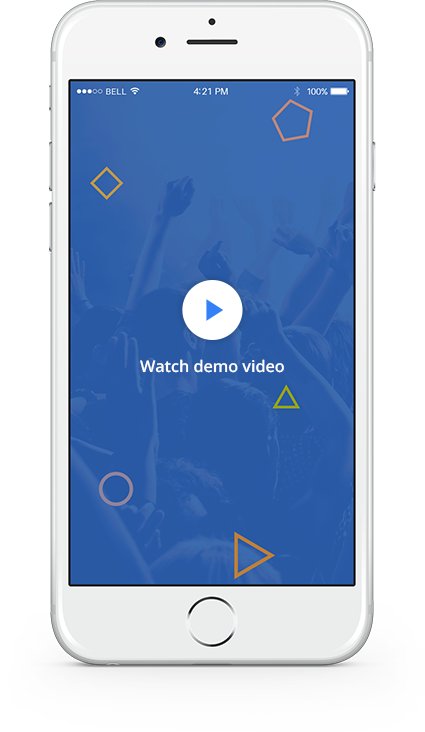
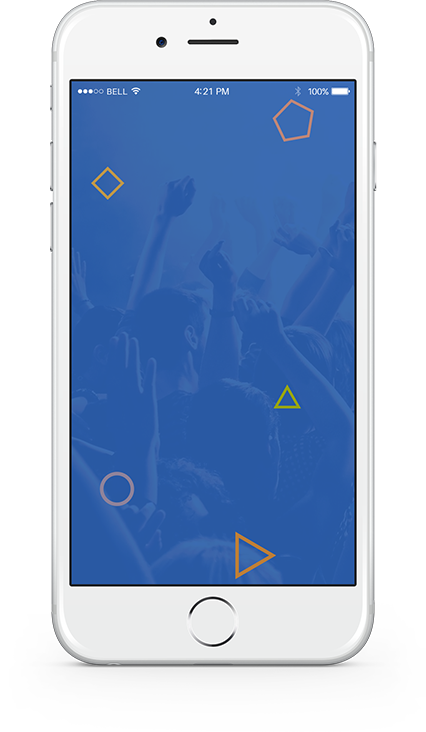
Watch demo video link dynamic + responsive
Le bouton sur la strate d’intro sur le mobile « Watch demo video » est
maintenant un vrai lien.
Son comportement est également géré en responsive avec les media-queries

diff --git a/ui/css/style.css b/ui/css/style.css
@@ -17,6 +17,7 @@ html, body{
 }
 a,p, h1, h2{
   font-family: 'Open Sans', sans-serif;
+  text-decoration: none;
 }
 img{
   max-width:100%;height:auto;display:block
@@ -221,20 +222,51 @@ input[type='submit']{
 .plain:nth-of-type(1) .email-wrapper{
   background: #ffcb64;
 }
-.plain:nth-of-type(1) .wrapper img{
+.plain:nth-of-type(1) .wrapper img {
+  
+}  
+.plain:nth-of-type(1) .pure-u-1:nth-of-type(2) .pure-pos {
   position: absolute;
   right: 14%;
 }
-.plain:nth-of-type(1) .wrapper a{
+.plain:nth-of-type(1) .pure-u-1:nth-of-type(2) a {
+  top: 38%;
+  right: 34%;
+  z-index: 1;
+  position: absolute;
+  color:#ffffff;
+}
+.plain:nth-of-type(1) .pure-u-1:nth-of-type(2) span:nth-of-type(1) {
+  width: 60px;
+  height: 60px;
+  display:block;
+  margin: 0 auto;
+  background: #fff url(../images/sprite-icons.png) no-repeat;
+  background-position: -93px -155px;
+  -moz-box-shadow: 0px 0px 5px 0px #656565;
+  -webkit-box-shadow: 0px 0px 5px 0px #656565;
+  -o-box-shadow: 0px 0px 5px 0px #656565;
+  box-shadow: 0px 0px 5px 0px #656565;
+  filter:progid:DXImageTransform.Microsoft.Shadow(color=#656565, Direction=NaN, Strength=5);
+  -moz-border-radius: 200px;
+  -webkit-border-radius: 200px;
+  border-radius: 200px;
+}
+.plain:nth-of-type(1) .pure-u-1:nth-of-type(2) span:nth-of-type(2) {
+  position: relative;
+  top: 20px;,
+}
+.plain:nth-of-type(1) .pure-u-1:nth-of-type(3) a{
   z-index:1;
   position: absolute;
   top: 100%;
   left: 50%;
   margin-left: -32px;
   margin-top: -32px;
-  padding: 32px;
+  width:64px;
+  height:64px;
   background: #fff url(../images/sprite-icons.png) no-repeat;
-  background-position: 7px -158px;
+  background-position: 7px -159px;
   -moz-box-shadow: 0px 0px 12px 0px #9b9b9b;
   -webkit-box-shadow: 0px 0px 12px 0px #9b9b9b;
   -o-box-shadow: 0px 0px 12px 0px #9b9b9b;
@@ -496,6 +528,7 @@ footer .swag-si-tu-lis-ca li:last-child{
   .plain:nth-of-type(1) .wrapper img,
   .plain:nth-of-type(2) .wrapper img{
     position: initial;
+    margin: 0 auto;
   }
   .plain:nth-of-type(4) header {
     padding-bottom: 100px;
@@ -536,6 +569,15 @@ footer .swag-si-tu-lis-ca li:last-child{
   .plain:nth-of-type(1) form{
     margin-bottom: 40px;
   }
+  .plain:nth-of-type(1) .pure-u-1:nth-of-type(2) .pure-pos {
+    position:initial;
+  }
+  .plain:nth-of-type(1) .pure-u-1:nth-of-type(2) a {
+    top:67%;
+    right: 50%;
+    margin-right: -72px;
+  }
+
   /* END SECTION 1 */
   /*****************/
 

diff --git a/ui/home.htm b/ui/home.htm
@@ -21,7 +21,10 @@
     </div>
     <div class="pure-u-1 pure-u-md-1-2">
       <div class="wrapper">
-        <img data-sr="wait 0.6s, over 1s, move 100px" src="ui/images/01-phone.png">
+        <div class="pure-pos">
+          <a data-sr="wait 0.6s, over 1s, move 120px" class="scrollTo" href="#"><span></span><span>Watch demo video</span></a>
+          <img data-sr="wait 0.6s, over 1s, move 80px" src="ui/images/01-phone.png">
+        </div>
       </div>
     </div>
     <div class="pure-u-1 pure-u-md-1-2">
